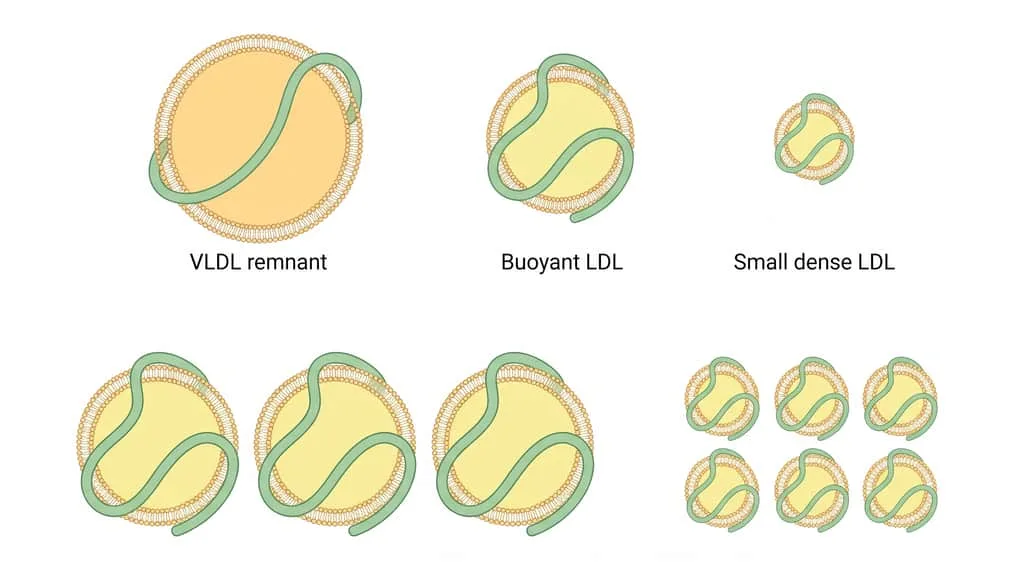
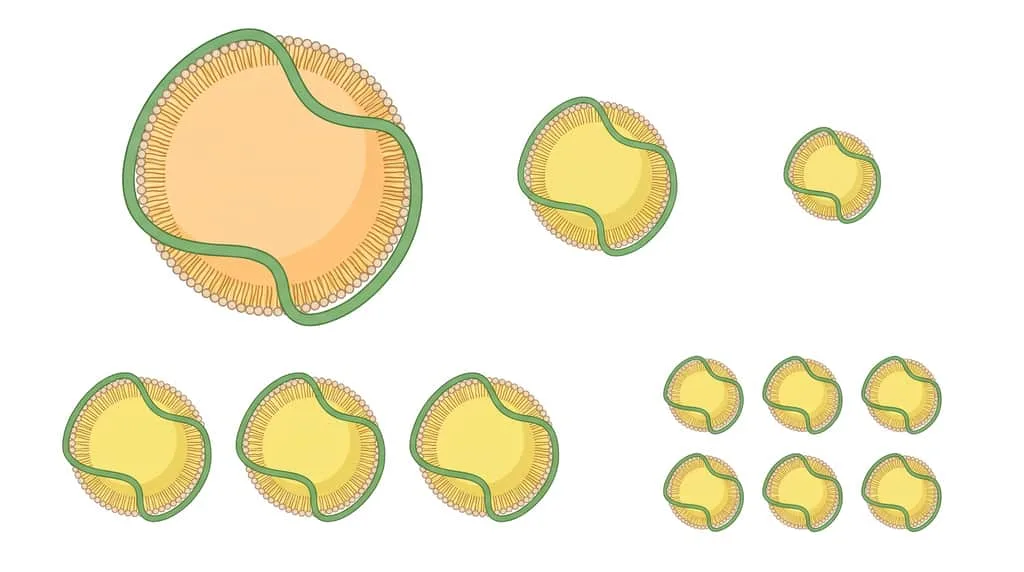
lipids: apoB plate redrawn with phospholipid monolayer; hotspots and remnant wording per audit
Claude-Session: https://claude.ai/code/session_01CMoRt5xPkg64aPPhsVd6Bw

diff --git a/lipids/index.html b/lipids/index.html
@@ -848,7 +848,7 @@ var PLATES = {
   gut: {t: 'Absorption: ezetimibe and bile acid sequestrants', src: '/media/lipids/gut.webp', alt: 'Intestinal lumen with cholesterol micelles and NPC1L1 transporters on enterocytes, chylomicrons leaving into a pale lacteal, and bile acids bound to resin beads moving toward the colon.', cap: 'Less cholesterol reaching the liver from the gut means the liver makes more LDL receptors.', hot: [[24, 27, 'Cholesterol in micelles'], [22, 45, 'NPC1L1 transporter'], [22, 67, 'Chylomicron leaves'], [45, 82, 'Lacteal (lymph)'], [80, 26, 'Bile acids bound to resin']], info: ['Dietary and biliary cholesterol is carried in mixed micelles.', 'Ezetimibe blocks NPC1L1, cutting cholesterol absorption; LDL falls about 25% on top of a statin.', 'Absorbed cholesterol leaves in chylomicrons.', 'Chylomicrons enter lymph before the blood.', 'Sequestrants bind bile acids so they are lost in stool; the liver uses cholesterol to make more. They can raise TG.']},
   lpa: {t: 'The Lp(a) particle', src: '/media/lipids/lpa.webp', alt: 'An LDL-like particle with apoB-100 linked by a disulfide bond to a long apolipoprotein(a) chain of repeated kringle loops, beside a plain LDL particle.', cap: 'Lp(a) is an LDL particle with apo(a) attached. The number of kringle repeats is inherited; fewer repeats mean more particles.', hot: [[21, 48, 'apo(a) kringles'], [6, 50, 'Protease-like domain'], [38, 51, 'Disulfide bond'], [60, 30, 'apoB-100'], [84, 50, 'Plain LDL']], info: ['apo(a) has many copies of kringle IV type 2; the copy number is set by the LPA gene and is the main determinant of the level.', 'This domain resembles plasminogen but has no protease activity. A clot-promoting role has been proposed, but current evidence does not show impaired fibrinolysis or more venous thrombosis (EAS 2022).', 'One disulfide bond links apo(a) to apoB-100.', 'Because it carries apoB, Lp(a) is atherogenic like LDL; it also carries oxidized phospholipids that inflame the wall and calcify the aortic valve.', 'Statins do not lower Lp(a) (they can raise it slightly); PCSK9 antibodies lower it about 25%. The first Lp(a)-lowering outcome trial (Lp(a)HORIZON, 2026) did not reduce events.']},
   lpl: {t: 'Triglycerides and lipoprotein lipase', src: '/media/lipids/lpl.webp', alt: 'A capillary with chylomicrons and VLDL docked to lipoprotein lipase on the endothelium, fatty acids passing into an adipocyte and a muscle cell, and smaller remnants staying in the lumen.', cap: 'Lipoprotein lipase on the capillary wall empties triglyceride-rich particles; apoC-III slows it.', hot: [[39, 33, 'Chylomicron'], [33, 48, 'Lipoprotein lipase'], [43, 26, 'apoC-III'], [43, 64, 'Fatty acids'], [30, 78, 'Fat cell'], [68, 77, 'Muscle'], [88, 33, 'Remnants']], info: ['Chylomicrons carry dietary triglyceride; VLDL carries the liver\'s.', 'LPL hydrolyzes triglyceride. Fibrates raise LPL activity (PPAR-alpha). Missing LPL or its partners causes familial chylomicronemia: TG over 1000 from childhood.', 'apoC-III inhibits LPL and remnant clearance; olezarsen silences it (approved for FCS).', 'Fatty acids go to fat for storage or muscle for fuel.', 'Insulin activates LPL in fat: why uncontrolled diabetes raises TG.', 'Muscle LPL rises with exercise.', 'Remnants are small enough to enter the artery wall and are atherogenic; they are counted in non-HDL and apoB but not LDL-C.']},
-  apob: {t: 'apoB: one per particle', src: '/media/lipids/apob.webp', alt: 'Three particles each wrapped by one apoB protein: a large VLDL remnant, a buoyant LDL and a smaller small dense LDL; below, three large LDL particles beside six small dense LDL particles.', cap: 'Every atherogenic particle carries exactly one apoB, so apoB counts particles while LDL-C weighs their cholesterol. Schematic: size differences are exaggerated.', hot: [[33, 13, 'apoB-100'], [19, 33, 'VLDL remnant'], [55, 25, 'Buoyant LDL'], [86, 17, 'Small dense LDL'], [32, 78, 'Fewer, larger particles'], [82, 78, 'More, smaller particles']], info: ['One apoB-100 wraps each particle made by the liver and stays with it from VLDL to LDL. It is also what the LDL receptor binds. One apoB per particle means the apoB level is a particle count.', 'What is left of VLDL after lipoprotein lipase removes triglyceride. Small enough to enter the artery wall and cholesterol-rich; counted in non-HDL and apoB but not in LDL-C.', 'A larger LDL carrying more cholesterol per particle.', 'A smaller LDL with less cholesterol per particle. It is more common when triglycerides are high and with insulin resistance.', 'The same LDL-C carried in fewer, larger particles: lower apoB.', 'The same LDL-C spread over more, smaller particles: higher apoB and more particles to enter the wall. This is the discordance apoB testing finds (reasonable once LDL and non-HDL goals are met, especially with high TG or diabetes: 2a).']},
+  apob: {t: 'apoB: one per particle', src: '/media/lipids/apob.webp', alt: 'Lipoprotein particles, each a lipid core inside a single phospholipid layer wrapped by one apoB protein: a large VLDL remnant, a buoyant LDL and a smaller small dense LDL; below, three buoyant LDL particles beside six small dense LDL particles.', cap: 'Every atherogenic particle carries exactly one apoB, so apoB counts particles while LDL-C weighs their cholesterol. Schematic: size differences are exaggerated.', hot: [[40, 30, 'apoB-100'], [24, 26, 'VLDL remnant'], [58, 31, 'Buoyant LDL'], [81, 31, 'Small dense LDL'], [30, 78, 'Fewer, larger particles'], [80, 78, 'More, smaller particles']], info: ['One apoB-100 wraps each particle made by the liver and stays with it from VLDL to LDL. It is also what the LDL receptor binds. One apoB per particle means the apoB level is a particle count.', 'What is left of VLDL after lipoprotein lipase removes triglyceride. Small enough to enter the artery wall and cholesterol-rich; counted in non-HDL and apoB but largely missed by LDL-C.', 'A larger LDL carrying more cholesterol per particle.', 'A smaller LDL with less cholesterol per particle. It is more common when triglycerides are high and with insulin resistance.', 'The same LDL-C carried in fewer, larger particles: lower apoB.', 'The same LDL-C spread over more, smaller particles: higher apoB and more particles to enter the wall. This is the discordance apoB testing finds (reasonable once LDL and non-HDL goals are met, especially with high TG or diabetes: 2a).']},
   fh: {t: 'Signs of familial hypercholesterolemia', src: '/media/lipids/fh-signs.webp', alt: 'Three panels: a thickened Achilles tendon with a xanthoma, an eye with a white-gray corneal arcus at the edge of the cornea, and yellow plaques on the eyelids.', cap: 'Tendon xanthomas strongly suggest FH; arcus before 45 supports it; xanthelasma is less specific.', hot: [[11, 60, 'Tendon xanthoma'], [46, 49, 'Corneal arcus'], [75, 45, 'Xanthelasma']], info: ['Cholesterol deposits in the Achilles or extensor tendons of the hands: feel for a thickened, nodular tendon. Highly specific for FH.', 'A white-gray ring at the corneal edge; common in older adults, but before about 45 it points to high LDL (expert practice).', 'Yellow plaques on the eyelids; about half of people with them have normal lipids, so check a panel but do not diagnose FH from them alone.']}
 };
 function plateImg(id, small){ var P = PLATES[id]; return '<div class="plate"><div class="pwrap"><img src="' + P.src + '" alt="' + esc(P.alt) + '" width="1024" height="572" loading="lazy">' + (P.hot ? P.hot.map(function(h, k){ return '<button class="hot" type="button" tabindex="-1" aria-hidden="true" data-hot="' + id + ':' + k + '" style="left:' + h[0] + '%;top:' + h[1] + '%">' + (k + 1) + '</button>'; }).join('') : '') + '</div><span class="credit">Created with BioRender.com</span></div>'; }
